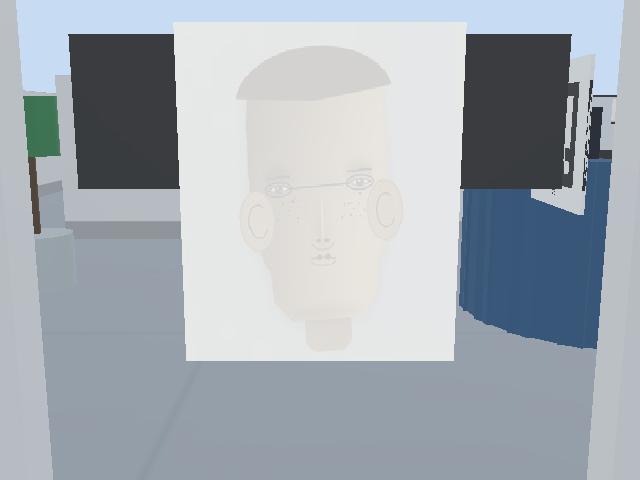
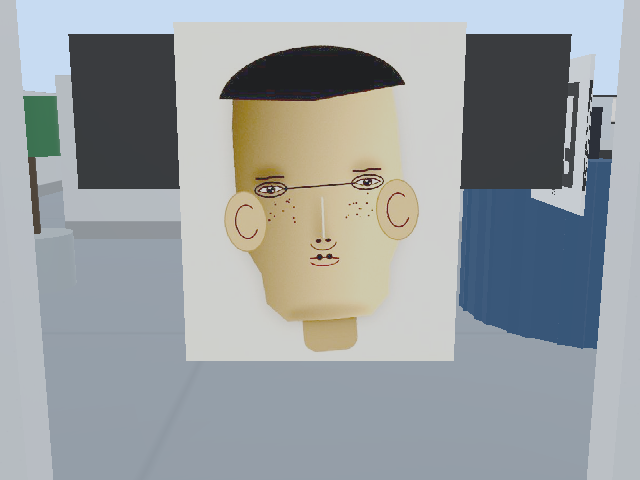
push

diff --git a/tests/test_face.py b/tests/test_face.py
@@ -66,15 +66,29 @@ print(f"leave-one-out accept: {'PASS' if accept else 'FAIL'}; reject both visito
 
 # Score the real Webots camera captures produced by the isolated handover-pose
 # probe. These are 640x480 BGR frames from the actual face_cam device.
+world_ok=True
+rahul_frame=cv2.imread(str(CTRL/"logs"/"face_cam_RAHUL.png"))
+if rahul_frame is not None:
+    det.setInputSize((rahul_frame.shape[1],rahul_frame.shape[0])); _,rows=det.detect(rahul_frame)
+    if rows is not None and len(rows):
+        face=max(rows,key=lambda row:float(row[14]))
+        aligned=rec.alignCrop(rahul_frame,face); feature=np.asarray(rec.feature(aligned),np.float32).ravel()
+        feature=feature/np.linalg.norm(feature)
+        print(f"in-world Rahul baseline: YuNet DETECTED conf={float(face[14]):.4f}; score vs Rahul enrolment={float(feature@rahul_enrolment):.4f}")
+    else:
+        print("in-world Rahul baseline: YuNet NO FACE")
+
 for pid in ("VISITOR_UNKNOWN_01", "VISITOR_UNKNOWN_02"):
     path=CTRL/"logs"/f"face_cam_{pid}.png"
     frame=cv2.imread(str(path))
     if frame is None:
         print(f"in-world {pid}: frame missing ({path})")
+        world_ok=False
         continue
     det.setInputSize((frame.shape[1],frame.shape[0])); _,rows=det.detect(frame)
     if rows is None or len(rows)==0:
         print(f"in-world {pid}: YuNet NO FACE; best match=none score=-")
+        world_ok=False
         continue
     face=max(rows,key=lambda row:float(row[14])); conf=float(face[14])
     aligned=rec.alignCrop(frame,face); feature=np.asarray(rec.feature(aligned),np.float32).ravel()
@@ -82,4 +96,6 @@ for pid in ("VISITOR_UNKNOWN_01", "VISITOR_UNKNOWN_02"):
     rahul_score=float(feature@rahul_enrolment)
     x,y,w,h=(int(face[i]) for i in range(4))
     print(f"in-world {pid}: YuNet DETECTED conf={conf:.4f} box=({x},{y},{w},{h}); best match=Rahul Mehta score={rahul_score:.4f}")
-if not (accept and reject and wrong_patient): raise SystemExit(1)
+    world_ok = world_ok and conf>=.6 and rahul_score<.4
+print(f"in-world visitors detected >=.6 and score <.4: {'PASS' if world_ok else 'FAIL'}")
+if not (accept and reject and wrong_patient and world_ok): raise SystemExit(1)

diff --git a/generate_world.py b/generate_world.py
@@ -17,7 +17,7 @@ import math
 import json
 import numpy as np
 import cv2
-from PIL import Image, ImageDraw, ImageFont
+from PIL import Image, ImageDraw, ImageEnhance, ImageFont
 rng = np.random.default_rng(42)
 
 ROOT = os.path.dirname(os.path.abspath(__file__))
@@ -601,8 +601,11 @@ def tag_face(tex_name, width=BOARD_W, height=None, unlit=False):
     height = width if height is None else height
     hw, hh = width / 2, height / 2
     if unlit:
-        appearance = (f"PBRAppearance {{ baseColor 1 1 1 emissiveColor 1 1 1 roughness 1 metalness 0 "
-                      f"baseColorMap ImageTexture {{ url [ \"textures/{tex_name}\" ] filtering 0 }} }}")
+        # An untextured white emission added over baseColorMap washes the face
+        # out. Use the image as the emission map itself so the quad remains
+        # unlit while preserving the source pixel values.
+        appearance = (f"PBRAppearance {{ baseColor 0 0 0 emissiveColor 1 1 1 roughness 1 metalness 0 "
+                      f"emissiveColorMap ImageTexture {{ url [ \"textures/{tex_name}\" ] filtering 0 }} }}")
     else:
         appearance = f"Appearance {{ texture ImageTexture {{ url [ \"textures/{tex_name}\" ] filtering 0 }} }}"
     return (f"Shape {{\n"
@@ -1549,6 +1552,14 @@ def main():
         if src_face and os.path.isfile(src_face):
             try:
                 im = Image.open(src_face)
+                if person.get("id") == "VISITOR_UNKNOWN_01":
+                    # This portrait has a narrower in-world head than Rahul's.
+                    # Widen the face inside the fixed quad and strengthen only
+                    # its tonal contrast, keeping vertical proportions intact.
+                    w, h = im.size
+                    margin_x = round(w * 0.08)
+                    im = im.crop((margin_x, 0, w - margin_x, h))
+                    im = ImageEnhance.Contrast(im).enhance(2.0)
                 im = im.resize((FACE_TEXTURE_SIZE, FACE_TEXTURE_SIZE), Image.Resampling.LANCZOS)
                 im.save(dest_face)
             except Exception:
